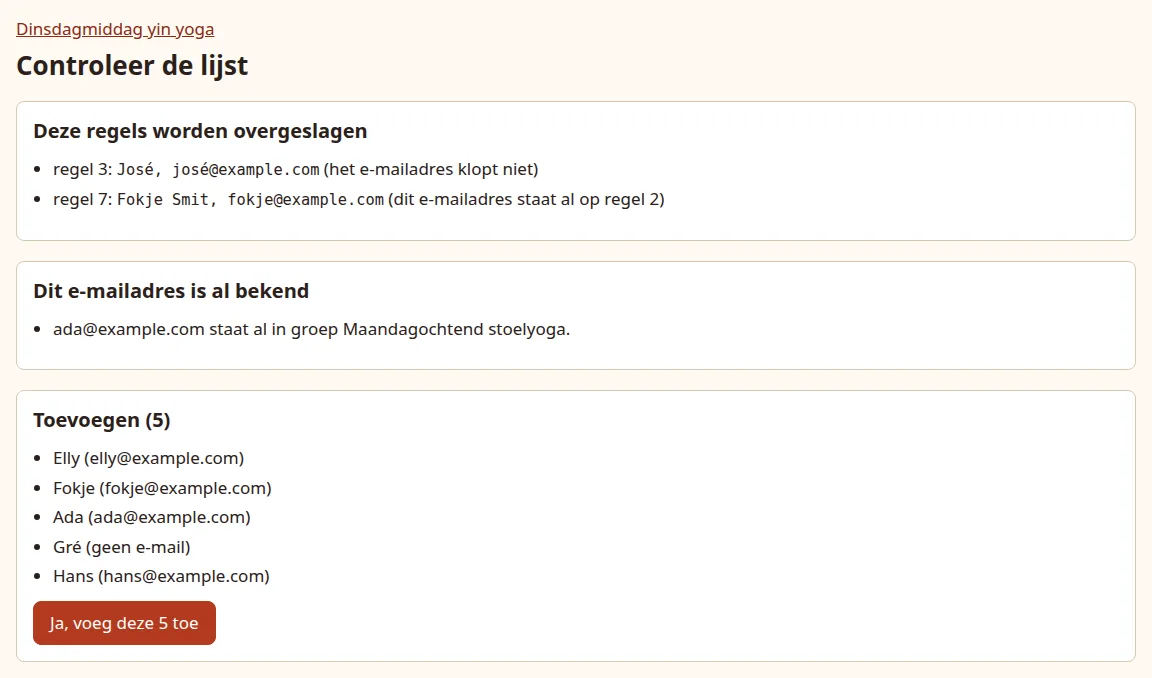
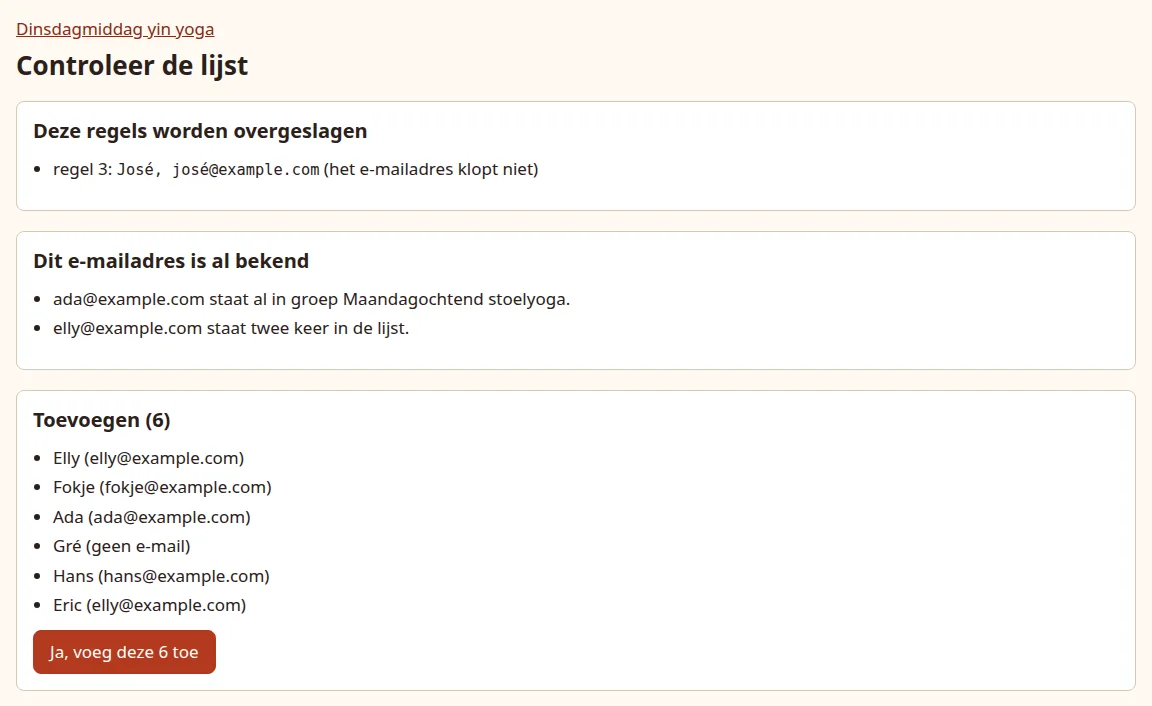
docs: show a shared address on the paste check

diff --git a/docs/guide/groups.md b/docs/guide/groups.md
@@ -41,7 +41,7 @@ Henk; henk@example.com
 
 When every line is fine, the people are added straight away and the dashboard says **Added.** (*Toegevoegd.*). Otherwise you first see a **Check the list** (*Controleer de lijst*) page:
 
-![The check page: two skipped lines, one with an invalid address and one with an address already on line 2, then an address already used in another group, and the people to add](../images/organiser-paste-confirm.webp){ .shot }
+![The check page: one skipped line with an invalid address, a warning that one address is already used in another group and another appears twice in the list, and the six people to add](../images/organiser-paste-confirm.webp){ .shot }
 
 **These lines are skipped** (*Deze regels worden overgeslagen*)
 :   Lines that cannot be added, each with its line number and the reason:
@@ -58,7 +58,7 @@ When every line is fine, the people are added straight away and the dashboard sa
     An address with an accented letter or emoji before the `@`, such as `josé@example.com`, is refused because mail servers and the email field on the participant's page do not accept it. An accented domain such as `ada@café.nl` is fine: it is stored and shown in its punycode form, `ada@xn--caf-dma.nl`, which is the same address written the way mail servers read it.
 
 **This email address is already known** (*Dit e-mailadres is al bekend*)
-:   The address is already used by someone in another group of this event, or appears twice in the list. This is a warning only: those people are still in the list to add. Leave them in if, for example, one person joins two classes or a couple shares one address; otherwise fix the list.
+:   The address is already used by someone in another group of this event (*staat al in groep ...*), or appears under two different names in the list (*staat twee keer in de lijst*). This is a warning only: those people are still in the list to add. Leave them in if, for example, one person joins two classes or a couple shares one address; otherwise fix the list.
 
 **To add** (*Toevoegen*)
 :   Everyone who will be added. Press **Yes, add these ...** (*Ja, voeg deze ... toe*) to add them, or change the list in the box at the bottom and press **Check and add** again.
